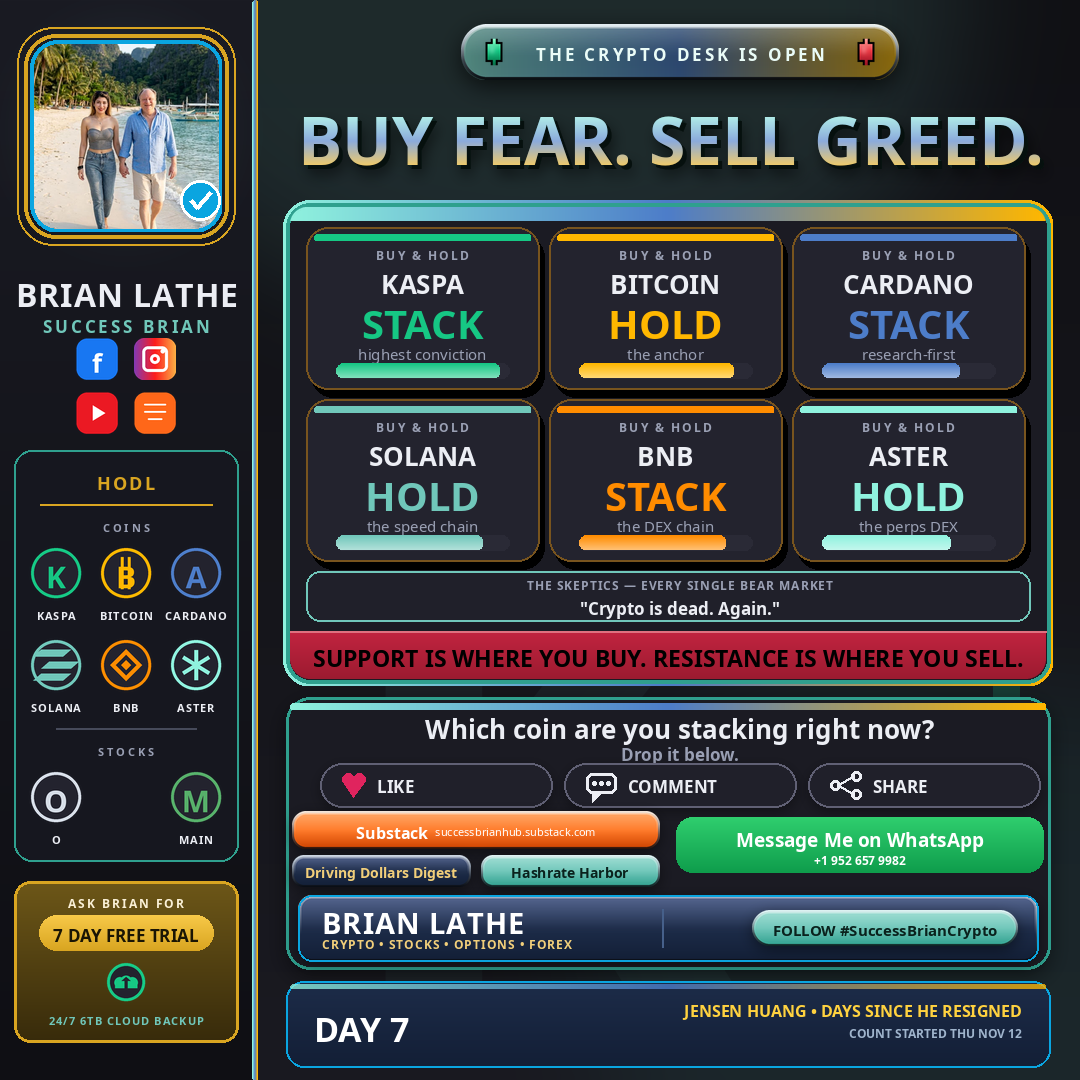
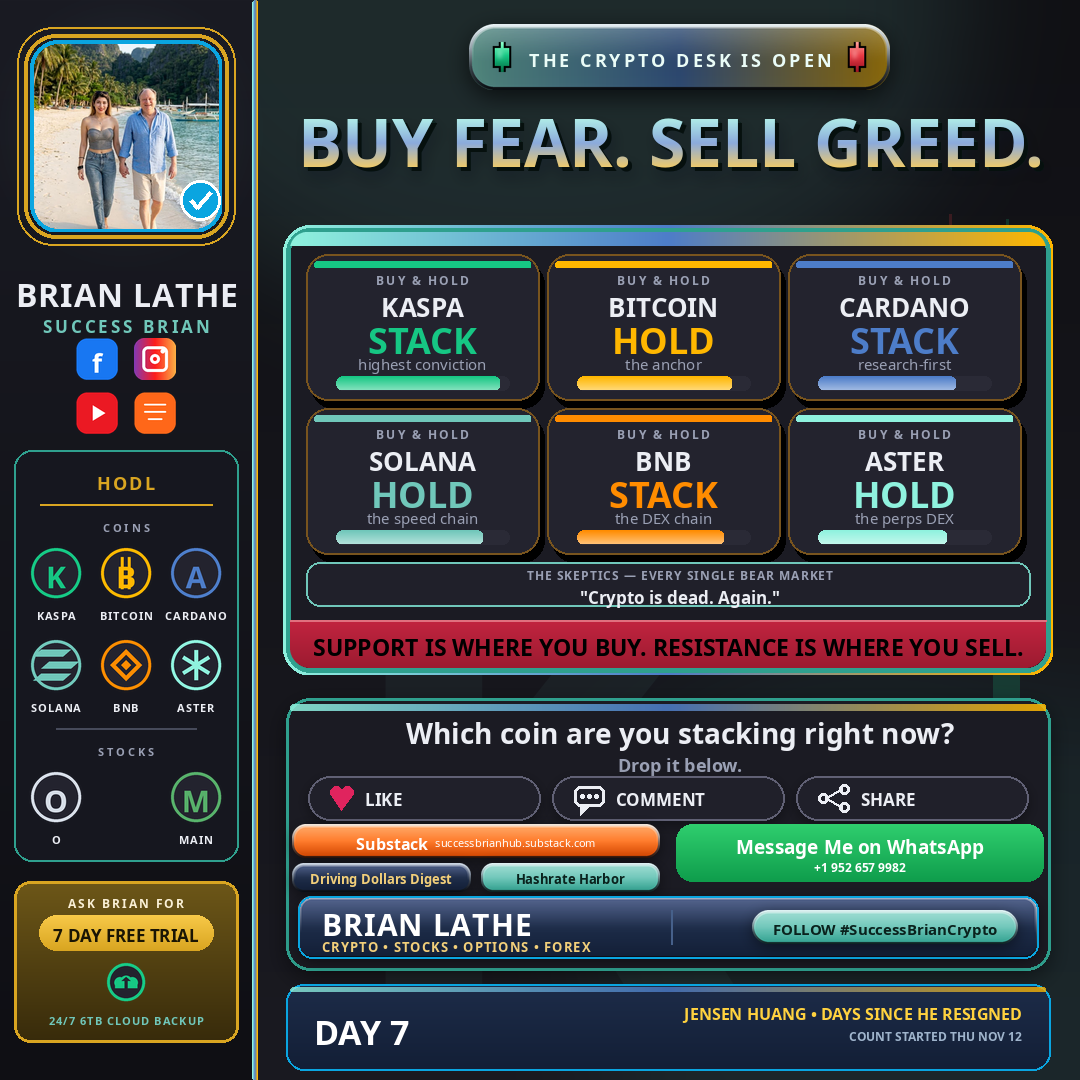
Crypto crossover: right side converged to the AI template layout + type (Brian, 2026-11-18 23:14 CST)
Kicker pill at AI proportions (66 tall, r26, FB18) in tonights manufactured form; headline via mt.headline_3d (depth 4, AI fitting, dark-canvas extrusion override) at y94 with the AI gap measure; framed card AI-exact (444 tall, outline w5, holo ring/band, garnet footer FB23) with coin cards reflowed 162->146 and skeptics 50->44; connect card on AI positions/type (ask FB28 T+16, subline FB18 T+54, chips 232x44 at T+78 on AI centers 424/668/912, destinations from T+126, WhatsApp in the AI CTA slot 368x58, signature band on AI plaque extents with FB30/FB13 type). Tonights content rulings re-expressed, not erased: polished Substack bar + DDD/HH row, split signature band with FOLLOW chip, brighter garnet + black text, trial CTA rail untouched. Card height stays 272 (extra destination row absorbed in the lower rhythm; full AI stack overflows the canvas) - flagged in the driver docstring.

diff --git a/tools/audience/render_crypto_crossover.py b/tools/audience/render_crypto_crossover.py
@@ -297,6 +297,64 @@ unchanged and nothing else in the piece moves. (This
 supersedes the centered full-width arrangement of the
 22:57 CST branding ruling; its words stand.)
 
+Right-side convergence ruling (Brian, 2026-11-18 23:14 CST):
+"I want the layouts of the right side of the crypto template
+to be the same or very similar to the ai one. then match the
+text fonts and font styles as closely as possible too." The
+right side is re-expressed in the AI crossover's geometry and
+type system (render_crossover_graph.py is the spec; both
+drivers already share the same font files — NotoSans-Bold /
+NotoSans-Regular — so the convergence is geometry + type
+ROLES, not family):
+- Kicker pill: AI proportions — y24, height 66, radius 26,
+  text FB18 — wearing tonight's manufactured form (gradient
+  candles with black outlines, bevel, sheen, soft shadow;
+  the 22:27/22:31 CST rulings stand — the AI pill's two-line
+  translucent sentence form is NOT adopted).
+- Headline: the AI function itself — mt.headline_3d, depth
+  4, fitted from 96 to layer width <= 814, pasted at y94,
+  gap measured as the AI driver measures it (94 + lh + 14)
+  — with HL crypto colors and headline_3d's documented
+  dark-canvas extrusion override ((16,38,34)/(6,16,14), the
+  old headline_3d_dark tones; the two functions' layer math
+  is identical, so this IS the AI treatment in the crypto
+  skin). Fitted size 66, layer 812x120.
+- Framed card: AI-exact — x286-1050, height 444, radius 24,
+  holo ring (r27) outside, outline width 5 (KASPA_DK, the
+  skin tone), 14px holo header band flush inside the top,
+  garnet footer band 48 flush inside the bottom (tonight's
+  brighter garnet + black text, FB23 — the AI punchline
+  tier). Interior is crypto content reflowed to the AI
+  frame: coin cards 146 tall (compressed from 162 — same
+  content, colors, words), skeptics strip 44.
+- Connect card: AI shell (radius 24, outline w3, soft
+  shadow, holo strip alpha 220) and AI positions/type for
+  the shared elements — ask FB28 at T+16, subline FB18 at
+  T+54, chips 232x44 at T+78 on the AI centers 424/668/912
+  (FB17), destinations opening at T+126, WhatsApp in the
+  AI CTA slot (676, T+126, 368x58, the _cta grammar it
+  already used), signature band on the AI plaque's
+  x-extents (298-1038) with AI plaque type (name FB30
+  tracking 1, markets line FB13 gold tracking 1).
+  Tonight's content is re-expressed, not erased: Substack
+  polished bar + the DDD/HH one-row buttons ride the left
+  destination column, the signature band keeps tonight's
+  split (branding left, FOLLOW chip right, manufactured
+  navy). Two measured compromises, flagged: (1) the card
+  height stays 272, not the AI card's 284 — the extra
+  destination row is absorbed by compressing the card's
+  lower rhythm (Substack bar 34, DDD/HH row 29, band 62
+  with its bottom on the same 12px card padding as the AI
+  plaque's); with the headline's fitted layer (120) the
+  full AI stack (284 card) overflows the 1080 canvas.
+  (2) WhatsApp moves +6y / +2h into the AI CTA slot — its
+  words, number, colors and grammar are byte-identical;
+  the 22:36 CST "exactly as it is" stands for everything
+  but this slot alignment, which the 23:14 ruling orders.
+- Counter strip: unchanged (already identical to the AI
+  strip: 764x86, same form/wording/type); it now sits at
+  the foot of the converged column (top 984, bottom 1070).
+
 Content (the crypto desk as rebranded, commit 25e4179): headline
 "BUY FEAR. SELL GREED.", the six coins as comparative cards, the
 skeptics strip, punchline "SUPPORT IS WHERE YOU BUY. RESISTANCE IS
@@ -944,9 +1002,12 @@ def main():
     # 3D bevel + inner highlight + top sheen (_kicker_pill),
     # gradient candle fills (_candle_outlined)) ----
     _kt = content["kicker"]  # "THE CRYPTO DESK IS OPEN"
-    _kf = font(FB, 17)
+    # Geometry converged to the AI pill (Brian, 2026-11-18
+    # 23:14 CST): height 66 (was 56), radius 26, text FB18 —
+    # the AI pill's proportions, tonight's manufactured form.
+    _kf = font(FB, 18)
     _ktw = d.textlength(_kt, font=_kf) + 3 * (len(_kt) - 1)
-    _pw, _ph = int(_ktw) + 150, 56
+    _pw, _ph = int(_ktw) + 120, 66
     _px = int(CX - _pw / 2)
     # soft drop shadow: the pill's silhouette in blurred black,
     # offset a breath down — premium, not heavy
@@ -961,45 +1022,51 @@ def main():
     _pill = _kicker_pill(_pw, _ph)
     img.paste(_pill, (_px, 24), _pill)
     d = ImageDraw.Draw(img)
-    cx_text(d, CX, 24 + (56 - 17) // 2 - 1, _kt, _kf, (234, 252, 247), tracking=3)
-    for _up, _gx in ((True, int(CX - _pw / 2 + 18)), (False, int(CX + _pw / 2 - 48))):
-        _g = _candle_outlined(30, up=_up)
-        img.paste(_g, (_gx, 24 + 13), _g)
+    cx_text(d, CX, 24 + (_ph - 18) // 2 - 1, _kt, _kf, (234, 252, 247), tracking=3)
+    for _up, _gx in ((True, int(CX - _pw / 2 + 16)), (False, int(CX + _pw / 2 - 50))):
+        _g = _candle_outlined(34, up=_up)
+        img.paste(_g, (_gx, 24 + 16), _g)
     d = ImageDraw.Draw(img)
 
-    # ---- headline (dark 3D variant, crypto gradient, fitted on the
-    # TRUE rendered layer width like the crossover) ----
+    # ---- headline — the AI crossover's own function and fitting
+    # procedure (Brian, 2026-11-18 23:14 CST convergence):
+    # mt.headline_3d, depth 4, fitted from 96 on the TRUE rendered
+    # layer width, pasted at y94, and the gap under it measured
+    # exactly as the AI driver measures it (94 + lh + 14). The
+    # extrusion override is headline_3d's documented dark-canvas
+    # parameter, carrying headline_3d_dark's tones — same
+    # treatment, crypto skin. (Supersedes the 22:40 CST
+    # glyph-measured gap; the fitted size is 66, layer 812x120.)
     size = 96
     _dummy = Image.new("RGBA", (10, 10))
     while size > 28:
         f_big = font(FB, size)
-        hl, (lw, lh) = ct.headline_3d_dark(_dummy, content["headline"],
-                                           f_big, list(HL), depth=4)
+        hl, (lw, lh) = mt.headline_3d(
+            _dummy, content["headline"], f_big, list(HL), depth=4,
+            extrusion=((16, 38, 34, 255), (6, 16, 14, 255)))
         if lw <= W - RAIL_W - 14:
             break
         size -= 1
-    img.paste(hl, (int(CX - lw / 2), 92), hl)
+    img.paste(hl, (int(CX - lw / 2), 94), hl)
     d = ImageDraw.Draw(img)
-    # the gap under the headline is measured from the GLYPHS
-    # (the layer's opaque bottom), not the layer's transparent
-    # padding — part of the 22:40 CST counter reflow: the
-    # strip's room comes from spacing, the headline itself is
-    # pasted pixel-identical at the same position.
-    cy = 92 + hl.getbbox()[3] + 12
+    cy = 94 + lh + 14
 
-    # ---- THE CENTRAL CARD: framed like the crossover graph card
-    # (gradient ring + header band + garnet footer band joined
-    # inside), dark-filled; inside it, the six coin cards and the
-    # skeptics strip ----
+    # ---- THE CENTRAL CARD: the AI crossover's graph-card frame
+    # at its exact geometry (Brian, 2026-11-18 23:14 CST):
+    # height 444, radius 24, holo ring outside, outline width 5,
+    # 14px holo header band flush inside the top, garnet footer
+    # band joined inside the bottom — dark-filled in the crypto
+    # skin; inside it, the six coin cards and the skeptics strip
+    # reflowed to the AI frame ----
     x0, x1 = RAIL_W + 34, W - 30
-    card_h = 480
+    card_h = 444
     _frame = mt.holo_pill((x1 - x0 + 6, card_h + 6), colors=HL,
                           radius=27, base_alpha=255)
     img.paste(_frame, (x0 - 3, cy - 3), _frame)
     d = ImageDraw.Draw(img)
     d.rounded_rectangle([x0, cy, x1, cy + card_h], 24,
                         fill=mt._hex(ct.CARD_BG) + (255,),
-                        outline=mt._hex(ct.KASPA_DK) + (255,), width=4)
+                        outline=mt._hex(ct.KASPA_DK) + (255,), width=5)
     _bw = (x1 - 4) - (x0 + 4)
     _band = mt.holo_pill((_bw, 14), colors=HL, radius=1, base_alpha=255)
     _bm = Image.new("L", (_bw * 3, 14 * 3), 0)
@@ -1011,15 +1078,15 @@ def main():
 
     # the six coin cards — the crypto desk's vertical terminal cards,
     # 3 x 2 inside the frame. (Interior rhythm compressed 188 ->
-    # 162 in the 22:40 CST counter reflow — same content, colors
-    # and words; the savings free the foot of the column for the
-    # counter strip.)
+    # 162 in the 22:40 CST counter reflow, then 162 -> 146 in the
+    # 23:14 CST convergence so the grid fits the AI frame's 444 —
+    # same content, colors and words throughout.)
     cards = content["cards"]
-    cw, chh, cgap = 233, 162, 10
+    cw, chh, cgap = 233, 146, 8
     for i, c in enumerate(cards):
         col, row = i % 3, i // 3
         x = x0 + 20 + col * (cw + cgap)
-        y = cy + 24 + row * (chh + cgap)
+        y = cy + 26 + row * (chh + cgap)
         ccx = x + cw / 2
         d.rounded_rectangle([x + 5, y + 8, x + cw + 5, y + chh + 8], 22,
                             fill=(0, 0, 0, 160))
@@ -1029,15 +1096,15 @@ def main():
         _strip = mt.grad_rounded((cw - 16, 7), [c["bar_color"], c["bar_color"]], 3)
         img.paste(_strip, (x + 8, y + 7), _strip)
         d = ImageDraw.Draw(img)
-        cx_text(d, ccx, y + 20, c["tag"], font(FB, 12), DIM_D, tracking=2)
+        cx_text(d, ccx, y + 18, c["tag"], font(FB, 12), DIM_D, tracking=2)
         _tf = ct._fit_font(d, c["title"], FB, 26, cw - 16)
-        cx_text(d, ccx, y + 39, c["title"], _tf, INK_D)
-        _pf = ct._fit_font(d, c["price"], FB, 40, cw - 16)
-        cx_text(d, ccx, y + 69, c["price"], _pf, c["bar_color"])
+        cx_text(d, ccx, y + 35, c["title"], _tf, INK_D)
+        _pf = ct._fit_font(d, c["price"], FB, 36, cw - 16)
+        cx_text(d, ccx, y + 61, c["price"], _pf, c["bar_color"])
         _sf = ct._fit_font(d, c["sub"], FR, 15, cw - 16)
         _stw = d.textlength(c["sub"], font=_sf)
-        d.text((ccx - _stw / 2, y + 116), c["sub"], font=_sf, fill=DIM_D)
-        bx, bw2, by2, bh2 = x + 30, cw - 60, y + 136, 15
+        d.text((ccx - _stw / 2, y + 99), c["sub"], font=_sf, fill=DIM_D)
+        bx, bw2, by2, bh2 = x + 30, cw - 60, y + 122, 14
         d.rounded_rectangle([bx, by2, bx + bw2, by2 + bh2], 7,
                             fill=(42, 42, 54, 255))
         mt._gbar(img, [bx, by2, bx + bw2 * c["bar_frac"], by2 + bh2],
@@ -1045,14 +1112,15 @@ def main():
         d = ImageDraw.Draw(img)
 
     # skeptics strip (the crypto counterpoint, in its own dark idiom;
-    # slimmed 54 -> 50 in the 22:40 CST counter reflow)
+    # slimmed 54 -> 50 in the 22:40 CST counter reflow, then 50 ->
+    # 44 in the 23:14 CST convergence to fit the AI frame)
     cp = content["counterpoint"]
-    sy = cy + 368
-    d.rounded_rectangle([x0 + 20, sy, x1 - 20, sy + 50], 14,
+    sy = cy + 334
+    d.rounded_rectangle([x0 + 20, sy, x1 - 20, sy + 44], 14,
                         fill=(32, 32, 42, 255),
                         outline=mt._hex(ct.KASPA) + (255,), width=2)
-    cx_text(d, CX, sy + 6, cp["label"], font(FB, 12), DIM_D, tracking=1)
-    cx_text(d, CX, sy + 25, cp["quote"], font(FB, 17), INK_D)
+    cx_text(d, CX, sy + 5, cp["label"], font(FB, 12), DIM_D, tracking=1)
+    cx_text(d, CX, sy + 23, cp["quote"], font(FB, 17), INK_D)
 
     # garnet punchline band — the card's footer, flush inside the
     # bottom border exactly as in the crossover
@@ -1077,8 +1145,14 @@ def main():
     # chip right — Brian, 2026-11-18 23:00 CST). The
     # counter strip follows the card at the foot of the column
     # (Brian, 2026-11-18 22:40 CST). Card height reflows inside
-    # the format (284 -> 272) in the counter reflow. ----
-    T = cy + 2
+    # the format (284 -> 272) in the counter reflow; positions
+    # and type converged to the AI card (Brian, 2026-11-18
+    # 23:14 CST): T = framed bottom + 12 + 14 as in the AI
+    # driver, ask/subline/chips at the AI offsets and sizes,
+    # destinations opening at T+126 — the card stays 272 (not
+    # the AI card's 284) because the extra destination row is
+    # absorbed in the lower rhythm; see the docstring. ----
+    T = cy + 14
     _card_h = 272
     _csh2 = Image.new("RGBA", (W, H), (0, 0, 0, 0))
     ImageDraw.Draw(_csh2).rounded_rectangle(
@@ -1090,15 +1164,16 @@ def main():
                         fill=mt._hex(ct.CARD_BG) + (255,),
                         outline=mt._hex(ct.KASPA_DK) + (255,), width=3)
     _astrip = mt.holo_pill((W - 30 - (RAIL_W + 34) - 8, 7), colors=HL,
-                           radius=3, base_alpha=255)
+                           radius=3, base_alpha=220)
     img.paste(_astrip, (RAIL_W + 38, T + 6), _astrip)
     d = ImageDraw.Draw(img)
     # the ask — Brian's curiosity line, split across the format's
-    # ask + subline exactly as written
-    _af, _asz = _fit("Which coin are you stacking right now?", 26, 724, floor=16)
-    cx_text(d, CX, T + 14, "Which coin are you stacking right now?",
+    # ask + subline exactly as written, in the AI card's type
+    # (FB28 at T+16, subline FB18 at T+54 — 23:14 CST)
+    _af, _asz = _fit("Which coin are you stacking right now?", 28, 724, floor=16)
+    cx_text(d, CX, T + 16, "Which coin are you stacking right now?",
             _af, INK_D)
-    cx_text(d, CX, T + 45, "Drop it below.", font(FB, 17), DIM_D)
+    cx_text(d, CX, T + 54, "Drop it below.", font(FB, 18), DIM_D)
 
     def _mchip(cx_center, label, kind, top):
         chw, chh = 232, 44
@@ -1136,9 +1211,9 @@ def main():
                 _cd.ellipse([bx0 + _dx - 2, by0 + 8, bx0 + _dx + 2, by0 + 12], fill=INK_D)
             ix = cx0 + 22 + 30 + 12
         _cd.text((ix, top + 11), label, font=font(FB, 17), fill=INK_D)
-    _mchip(CX - 244, "LIKE", "like", T + 66)
-    _mchip(CX, "COMMENT", "comment", T + 66)
-    _mchip(CX + 244, "SHARE", "share", T + 66)
+    _mchip(424, "LIKE", "like", T + 78)
+    _mchip(668, "COMMENT", "comment", T + 78)
+    _mchip(912, "SHARE", "share", T + 78)
 
     def _cta(cx0, top, w, h, c_top, c_bot, line1, line2):
         _b = _vgrad(w, h, c_top, c_bot, 16)
@@ -1178,35 +1253,40 @@ def main():
         _sh = _sh.filter(ImageFilter.GaussianBlur(7))
         img.paste(_sh, (x - _pad, top + 4 - _pad), _sh)
 
-    # Substack — the orange bar, polished
-    _bar_shadow(292, T + 114, 368, 38, 14)
-    _sb2 = _polished_bar(368, 38, ("#ff9a4d", "#ff7a29", "#cf4300"), 14)
-    img.paste(_sb2, (292, T + 114), _sb2)
+    # Substack — the orange bar, polished; the destinations now
+    # open at the AI card's CTA offset (T+126, 23:14 CST) and the
+    # left column's two rows compress to 34 + 29 so the signature
+    # band keeps its 12px card padding inside the 272 card
+    _bar_shadow(292, T + 126, 368, 34, 14)
+    _sb2 = _polished_bar(368, 34, ("#ff9a4d", "#ff7a29", "#cf4300"), 14)
+    img.paste(_sb2, (292, T + 126), _sb2)
     d = ImageDraw.Draw(img)
     _f1 = font(FB, 16)
     _f2 = font(FR, 11)
     _w1 = d.textlength("Substack", font=_f1)
     _w2 = d.textlength(mt.BRAND["blog_url"], font=_f2)
     _x = 292 + (368 - (_w1 + 7 + _w2)) / 2
-    d.text((_x, T + 114 + 10), "Substack", font=_f1,
+    d.text((_x, T + 126 + 8), "Substack", font=_f1,
            fill=(255, 255, 255, 255))
-    d.text((_x + _w1 + 7, T + 114 + 13), mt.BRAND["blog_url"],
+    d.text((_x + _w1 + 7, T + 126 + 11), mt.BRAND["blog_url"],
            font=_f2, fill=(255, 255, 255, 235))
     # the two blog buttons — one row, each in its blog branding
-    _bar_shadow(292, T + 158, 179, 32, 12)
-    _ddd = _polished_bar(179, 32, ("#33477a", "#1d2c49", "#131f36"), 12)
-    img.paste(_ddd, (292, T + 158), _ddd)
-    _bar_shadow(481, T + 158, 179, 32, 12)
-    _hh = _polished_bar(179, 32, ("#8fd8cc", "#70c7ba", "#2fa08e"), 12)
-    img.paste(_hh, (481, T + 158), _hh)
+    _bar_shadow(292, T + 165, 179, 29, 12)
+    _ddd = _polished_bar(179, 29, ("#33477a", "#1d2c49", "#131f36"), 12)
+    img.paste(_ddd, (292, T + 165), _ddd)
+    _bar_shadow(481, T + 165, 179, 29, 12)
+    _hh = _polished_bar(179, 29, ("#8fd8cc", "#70c7ba", "#2fa08e"), 12)
+    img.paste(_hh, (481, T + 165), _hh)
     d = ImageDraw.Draw(img)
-    _df, _dsz = _fit("Driving Dollars Digest", 14, 163, floor=10)
-    cx_text(d, 292 + 179 // 2, T + 158 + (32 - _dsz) // 2 - 1,
+    _df, _dsz = _fit("Driving Dollars Digest", 13, 163, floor=10)
+    cx_text(d, 292 + 179 // 2, T + 165 + (29 - _dsz) // 2 - 1,
             "Driving Dollars Digest", _df, "#f2cf7a")
-    _hf, _hsz = _fit("Hashrate Harbor", 14, 163, floor=10)
-    cx_text(d, 481 + 179 // 2, T + 158 + (32 - _hsz) // 2 - 1,
+    _hf, _hsz = _fit("Hashrate Harbor", 13, 163, floor=10)
+    cx_text(d, 481 + 179 // 2, T + 165 + (29 - _hsz) // 2 - 1,
             "Hashrate Harbor", _hf, (10, 34, 29))
-    _cta(676, T + 120, 368, 56, "#2fce6e", "#0f9d4c",
+    # WhatsApp in the AI CTA slot (676, T+126, 368x58) — same
+    # words, number, colors and _cta grammar as before (23:14 CST)
+    _cta(676, T + 126, 368, 58, "#2fce6e", "#0f9d4c",
          "Message Me on WhatsApp",
          dict(mt.BRAND["handles"])["whatsapp"])
 
@@ -1229,10 +1309,12 @@ def main():
     # a lit-teal chip (the Hashrate Harbor button's Kaspa-teal
     # family, dark ink), vertically centered against the
     # branding block; a hairline divider stands in the middle
-    # ground between the sides. The band grows 58 -> 66 into
-    # the space the hashtag line freed and centers between the
-    # blog buttons and the card's bottom edge; the card's fixed
-    # format height is unchanged.
+    # ground between the sides. The band grew 58 -> 66 into
+    # the space the hashtag line freed; in the 23:14 CST
+    # convergence it is 62 tall on the AI plaque's x-extents,
+    # its bottom on the same 12px card padding as the AI
+    # plaque's, carrying the AI plaque's type (name FB30,
+    # markets FB13 gold, both tracking 1).
     def _lx_text(d, x, y, text, fnt, fill, tracking=0):
         if tracking:
             for ch in text:
@@ -1244,7 +1326,7 @@ def main():
 
     _bx0, _bx1 = RAIL_W + 46, W - 42
     _bw = _bx1 - _bx0
-    _by, _bh = T + 198, 66
+    _by, _bh = T + 198, 62
     _bar_shadow(_bx0, _by, _bw, _bh, 14)
     _pq = _polished_bar(_bw, _bh, ("#33477a", "#1d2c49", "#131f36"), 14)
     img.paste(_pq, (_bx0, _by), _pq)
@@ -1252,16 +1334,16 @@ def main():
     d.rounded_rectangle([_bx0, _by, _bx1, _by + _bh], 14,
                         outline="#0aa5e0", width=2)
     # LEFT — the branding, left-aligned in the band
-    _nend = _lx_text(d, _bx0 + 24, _by + 8, "BRIAN LATHE",
-                     font(FB, 29), "white", tracking=1)
-    _mend = _lx_text(d, _bx0 + 24, _by + 41,
+    _nend = _lx_text(d, _bx0 + 24, _by + 7, "BRIAN LATHE",
+                     font(FB, 30), "white", tracking=1)
+    _mend = _lx_text(d, _bx0 + 24, _by + 42,
                      "CRYPTO \u2022 STOCKS \u2022 OPTIONS \u2022 FOREX",
-                     font(FB, 12), "#f2cf7a", tracking=1)
+                     font(FB, 13), "#f2cf7a", tracking=1)
     # RIGHT — the follow hashtag, up in the band as a chip
     _tag = ct.CRYPTO_BRAND["hashtag"]
     _tf, _tsz = _fit(_tag, 15, 300, floor=11)
     _cw = int(d.textlength(_tag, font=_tf) + 42)
-    _ch = 36
+    _ch = 34
     _cx1 = _bx1 - 20
     _cx0 = _cx1 - _cw
     _cy0 = _by + (_bh - _ch) // 2
@@ -1290,7 +1372,7 @@ def main():
     # number is DERIVED from the anchor (DAY 1 = Thu Nov 12,
     # 2026) and the render date, never hard-coded. =====
     _day = (date.today() - HUANG_COUNT_START).days + 1
-    cs0, cs1 = T + _card_h + 12, T + _card_h + 12 + 86
+    cs0, cs1 = T + _card_h + 14, T + _card_h + 14 + 86
     _sb3 = _vgrad(W - 30 - (RAIL_W + 34), cs1 - cs0,
                   "#1d2c49", "#131f36", 18)
     img.paste(_sb3, (RAIL_W + 34, cs0), _sb3)
